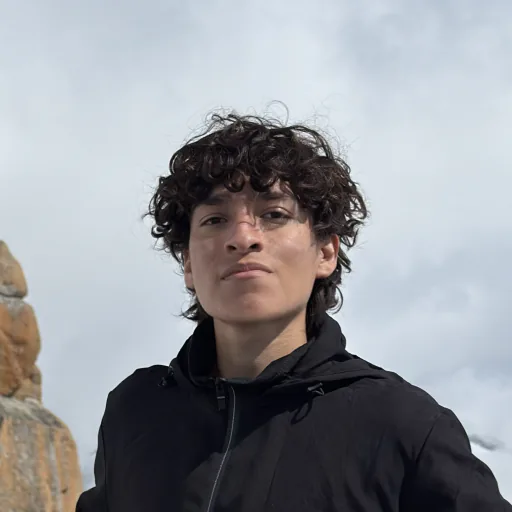
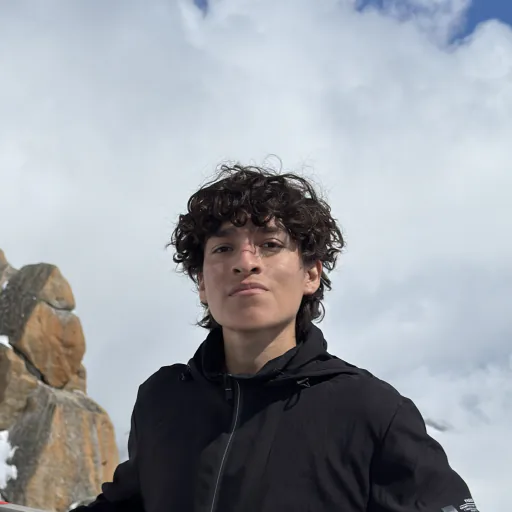
feat: real photography and project screenshots
Adds the five photo-strip squares and the HPE CDS team photo, captures
checalo.mx and hpe.52sec.org for the project entries, and widens the avatar
crop. All images converted to WebP; the full set ships in 456 KB.

diff --git a/content/site.ts b/content/site.ts
@@ -158,13 +158,13 @@ export const site = {
 
   /** Tilted photo strip on the home page. Files live in /public/images/strip/. */
   photoStrip: [
-    '/images/strip/strip-01.jpg',
-    '/images/strip/strip-02.jpg',
-    '/images/strip/strip-03.jpg',
-    '/images/strip/strip-04.jpg',
-    '/images/strip/strip-05.jpg',
+    '/images/strip/strip-01.webp',
+    '/images/strip/strip-02.webp',
+    '/images/strip/strip-03.webp',
+    '/images/strip/strip-04.webp',
+    '/images/strip/strip-05.webp',
   ],
 
   avatar: '/images/profile/avatar.webp',
-  portrait: '/images/profile/portrait.jpg',
+  portrait: '/images/profile/avatar.webp',
 };

diff --git a/content/projects.ts b/content/projects.ts
@@ -42,7 +42,7 @@ export const projects: Project[] = [
       'Cloudflare',
     ],
     links: [{ label: 'checalo.mx', href: 'https://checalo.mx' }],
-    images: ['/images/projects/checalo-01.jpg'],
+    images: ['/images/projects/checalo-01.webp'],
   },
   {
     slug: 'hpe-cds-digital-twin',
@@ -84,6 +84,6 @@ export const projects: Project[] = [
         href: 'https://github.com/damianbasilio/gemelodigitalhpe_52sec',
       },
     ],
-    images: ['/images/projects/hpe-cds-01.jpg'],
+    images: ['/images/projects/hpe-cds-01.webp'],
   },
 ];

diff --git a/content/competitions.ts b/content/competitions.ts
@@ -33,7 +33,7 @@ export const competitions: Competition[] = [
     links: [
       { label: 'HPE_Final', href: 'https://github.com/damianbasilio/HPE_Final' },
     ],
-    images: ['/images/competitions/hpe-cds-25-26-01.jpg'],
+    images: ['/images/competitions/hpe-cds-25-26-01.webp'],
   },
   {
     slug: 'cybersecurity-global-buap-ctf',

diff --git a/public/images/README.md b/public/images/README.md
@@ -1,25 +1,23 @@
 # Images
 
-Replace every placeholder here with a real photo. Filenames must stay exactly
-as listed — `content/` references them by path and the build fails if one is
-missing.
+Everything here is WebP, produced by the image optimizer so sizes stay small.
+Filenames must stay exactly as listed: `content/` references them by path and
+the build fails if one is missing.
 
-| Path | What it is | Target size | Aspect |
-|---|---|---|---|
-| `profile/avatar.jpg` | Square headshot, used in the hero and nav | 400×400 | 1:1 |
-| `profile/portrait.jpg` | Larger portrait for the About page | 800×1000 | 4:5 |
-| `strip/strip-01.jpg` … `strip-05.jpg` | Home page photo strip — hackathons, team, Madrid | 600×750 | 4:5 |
-| `projects/checalo-01.jpg` | Chécalo screenshot or mockup | 1600×900 | 16:9 |
-| `projects/hpe-cds-01.jpg` | Digital twin dashboard screenshot | 1600×900 | 16:9 |
-| `competitions/hpe-cds-25-26-01.jpg` | Madrid / team photo | 1600×900 | 16:9 |
+| Path | What it is | Size |
+|---|---|---|
+| `profile/avatar.webp` | Square headshot, used in the hero ring and on About | 512px |
+| `strip/strip-01.webp` … `strip-05.webp` | Home page photo strip | 700px square |
+| `projects/checalo-01.webp` | checalo.mx | 1440px, 16:9 |
+| `projects/hpe-cds-01.webp` | hpe.52sec.org | 1440px, 16:9 |
+| `competitions/hpe-cds-25-26-01.webp` | HPE CDS Tech Challenge | 1400px |
 
 ## Adding more
 
-1. Drop the file in the right folder.
+1. Run the optimizer to produce a WebP at the right size.
 2. Add its path to the entry's `images` array in `content/projects.ts` or
    `content/competitions.ts`.
-3. Rebuild. If the path is wrong, the build fails and names it.
+3. Rebuild. A wrong path fails the build and names it.
 
-Entries with an empty `images` array render a generated gradient instead — that
-is intentional, not a bug. Compress images before committing; nothing here
-should exceed ~300 KB.
+Entries with an empty `images` array render a generated gradient instead, which
+is intentional. Nothing here should go past ~150 KB.
